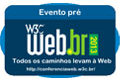
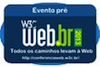
redimensionando parceiros

diff --git a/2013/src/documents/themes/front-in-bh/css/frontin.css b/2013/src/documents/themes/front-in-bh/css/frontin.css
@@ -622,10 +622,6 @@ background: transparent url(../img/pin-tickets.jpg) no-repeat 0 0;
   font-size: 40px;
 }
 
-.partners img {
-  width: 100px;
-}
-
 .partners-list {
   text-align: center;
 }
